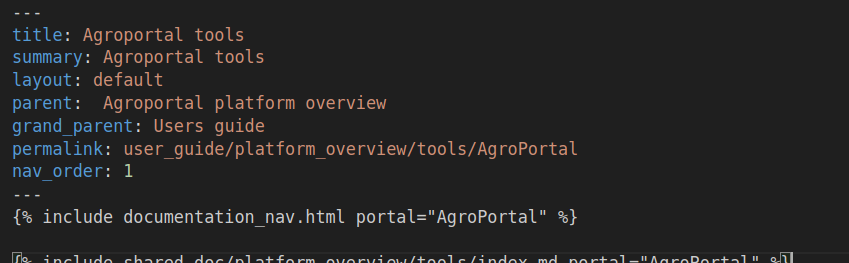
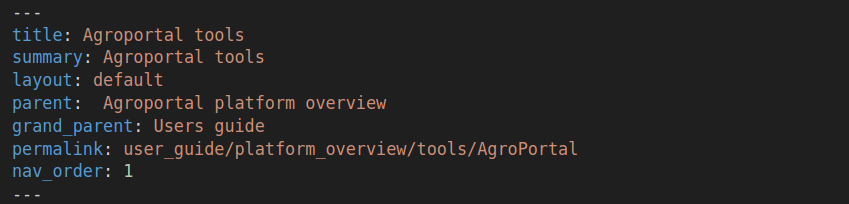
Added instructions on the user documentation contribution guide and moved the guide page link to the footer (#72)
* Added instructions on the user documentation contribution guide and moved the guide page link to the footer

* Fixed oversight when moving contribution guide to a separate page

Changed region(s): [[0.0, 0.0294, 0.7044, 0.8824], [0.0, 0.9412, 0.9494, 1.0]]

diff --git a/_layouts/default.html b/_layouts/default.html
@@ -208,6 +208,10 @@ layout: table_wrappers
 
             {{ footer_custom }}
 
+            {% if page.title == "Users guide" or page.parent == "Users guide" or page.grand_parent == "Users guide" %}
+              <p class="text-small"><a href="/documentation/user_guide/contribute">How to contribute to user documentation</a></p>
+            {% endif %}
+            
             {% if site.last_edit_timestamp or site.gh_edit_link %}
               <div class="d-flex mt-2">
                 {% if site.last_edit_timestamp and site.last_edit_time_format and page.last_modified_date %}

diff --git a/_includes/shared_doc/how_to_contribute.md b/_includes/shared_doc/how_to_contribute.md
@@ -1,15 +1,44 @@
-## How to contribute
+## How to contribute to user documentation
+In the following sections, you will find straightforward description of how to contribute to this user guide, edit shared files between the portals in the alliance, and add or edit specific content for each portal.
+If you don't know how to use Git to edit this documentation, please use the following guide: [How to contribute on github](../../documentation/docs/documentation-docs/how-to-contribute-doc/)
+
+## Files structure
+The files are structured as follows:
+
+- Shared content across all portals is located in the folder: `_includes/shared_doc`
+- Each portal has its own folder named with the name of the portal in: `docs/users-guide-docs/documentation`
+- Figures can be found in the folder: `assets/images/figures/ontoportal/PortalName` (create a new folder if needed)
+- From each portal's specific file, we can include the shared documentation to add to it or incorporate specific content.
+
+![files structure]({{site.baseimgs}}/files_structure.png)
+
+### Front matters
+- In the very top of each documentation page you need to specify these front matters to make your section appears in tables of content and the side navigation table:
+![files head]({{site.baseimgs}}/file_head.png)
+    - **title**: the title of the page. Documentation pages sharing the same title with other portals should be identified as specific to your portal by adding a space followed by @ and the name of your portal: `@PortalName`. The full title including the identifier will then be used to designate it at the parent when writing children pages: `parent: My title @PortalName`.
+    - **summary**: a brief description of the page. It will appear in the table of content of the parent page, if there's any.
+    - **layout**: the page layout. Leave it to default.
+    - **parent**: the parent page. Used to define a hierarchy.
+    - **grand_parent**: if the page is deeper in the hierarchy and Users guide is not the parent, then it Users guide becomes the grand_parent.
+    - **permalink**: defines the end part of the URL of this page. Append the name of your portal at the end of the URL, as shown in the example.
+    - **nav_order**: defines the index of the page in the table of content on the left side.
+- There are additional front matters you can use that are defined portal-wide (found in ` _config.yml`), but can also be redefined in the header of each page:
+    - **display_ontoportal_tabs**: if set to false, it will not show other OntoPortal tabs at the bottom of the page
+    - **atom**: define the core naming used for semantic resources (semantic artefact, ontology, etc...)
+    - **atoms**: same than previously, but in plural
+    - **portal**: the name of the portal
 
 ### How to add a new shared section?
 
 1. Create a new file with the extension `.md` within this path: `shared_doc/chapter_name/section_name/sub_section_name.md`
 2. Populate it with the desired content.
+3. Instead of writing "ontology" or "semantic artefact", write `{% raw %}{{ page.atom }}{% endraw %}` instead (or `{% raw %}{{ page.atoms }}{% endraw %}` for the plural form). Each portal can then decide which name they prefer to use.
 
 ### How to use this shared content for different portals?
 
 1. Create a new file with the extension `.md` within this path: `docs/users-guide-docs/documentation/portal_name/chapter_name/section_name.md`
 
-2. Inside this file, use this command: `include shared_doc/chapter_name/section_name/sub_section_name.md` to include the desired file.
+2. Inside this file, use this command: `{% raw %}{% include shared_doc/chapter_name/section_name/sub_section_name.md %}{% endraw %}` to include the desired file.
 
 3. To include multiple files, simply repeat the same command, specifying the correct file names each time.
 
@@ -24,38 +53,12 @@
 
 1. Inside the shared file, instead of writing the name of the portal, for example AgroPortal, you replace it by the variable `page.portal`
 ![shared_file_var_usage]({{site.baseimgs}}/shared_file_var_usage.png)
-2. When you include this file, you need to pass the value of the portal variable like this:  `include shared_doc/chapter_name/section_name/sub_section_name.md portal="AgroPortal"`
+2. When you include this file in a specific portal's doc, the portal name is automatically passed to it. The portal name is stored in the variable `page.portal` and can be found at the end of the `_config.yml`.
 
 ### How can screenshots or figures, which vary between portals, be incorporated into the shared files?
 
 1. Put the figure in this path: `assets/images/ontoportal/figures/portal_name/figure_name.png`
-2. Use this command
+2. Include the figure in the documentation with this command: `{% raw %}[MyFigureTitle]({{site.figures_link}}{{page.portal}}/MyFigure.png){% endraw %}`
 ![images_var_usage]({{site.baseimgs}}/images_var_usage.png)
-3. When you include this file in a specific portal's doc, you need to pass the value of the portal variable like this:  `include shared_doc/chapter_name/section_name/sub_section_name.md portal="AgroPortal"`
-
-### Important notes
-- In the very top of the portal's file, you need to specify these params to make your section appears in the Table of contents and the side nav:
-![files head]({{site.baseimgs}}/file_head.png)
-
-- Also in these files, you need always to add this command in before including or writing any content to include the navigation (portal's logos)
-`include documentation_nav.html portal="AgroPortal"`
-
-- To put a command inside a `.md` file you need to put it inside &#123;&#37; HERE &#37;&#125;
-
-- To use a variable inside your text, you need to put it inside &#123; include.VAR_NAME &#125;
-
-- Documentation pages sharing the same title with other portals should be identified as specific to your portal by adding a space followed by @ and the name of your portal: ` @PortalName`. The full title including the identifier will then be used to designate it at the parent when writing children pages: `parent: My title @PortalName`.
-
-[How to contribute on github](../../documentation/docs/documentation-docs/how-to-contribute-doc/)
-
-## Files structure
-The files are structured as follows:
-
-- Shared content across all portals is located in the folder: `_includes/shared_doc`
-- Each portal has its own folder named with the name of the portal in: `docs/users-guide-docs/documentation`
-- From each portal's specific file, we can include the shared documentation to add to it or incorporate specific content.
-
-![files structure]({{site.baseimgs}}/files_structure.png)
-
 
 

diff --git a/docs/documentation-docs/how-to-contribute-doc.md b/docs/documentation-docs/how-to-contribute-doc.md
@@ -44,3 +44,27 @@ At the bottom of each page, you will find a link that will take you to the corre
 ### Make your change and submit a commit
 ![image](https://user-images.githubusercontent.com/29259906/207832629-ba36a90d-376e-4705-ab10-b3513eec0660.png)
 
+## How to add images
+
+### Fork the project
+You can't upload a file directly to the repository. Instead, you need to fork the project:
+![image]({{site.baseimgs}}/contribute-fork.png)
+If you already forked the project, you can click the "Sync fork" button in your repository to make sure it is up to date with the current state of the documentation.
+
+### Upload an image, commit and open a pull request
+Navigate to `assets/images/ontoportal` (or `assets/images/ontoportal/figures/PortalName` for user documentation figures) and click "Add file":
+![image]({{site.baseimgs}}/contribute-upload.png)
+
+
+Drag and drop or select your file and then commit into a new branch:
+![image]({{site.baseimgs}}/contribute-upload-commit.png)
+
+
+Open a pull request onto the original repository. Click "compare across forks" to access it:
+![image]({{site.baseimgs}}/contribute-compare-forks.png)
+
+
+Select `base repository: ontoportal/documentation` and `base: master`
+You can now create the pull request:
+![image]({{site.baseimgs}}/contribute-open-pr.png)
+Note: you can also add and modify documentation pages in the new branch before creating a pull request.

diff --git a/docs/users-guide-docs/index.md b/docs/users-guide-docs/index.md
@@ -12,13 +12,8 @@ permalink: /user_guide
 Welcome to the official OntoPortal User Guide for each portal within the OntoPortal alliance. Please select a chapter or section from the menu to get started.
 
 
-In the following sections, you will find straightforward description of how to contribute to this user guide, edit shared files between the portals in the alliance, and add or edit specific content for each portal.
-
-{% include shared_doc/how_to_contribute.md%}
-
 links:
 - NCBO docs: [NCBO wiki](https://www.bioontology.org/wiki/Main_Page) and  [Bioportal Help](https://www.bioontology.org/wiki/BioPortal_Help)
 - [Our Scientific papers](https://github.com/ontoportal/literature) 
 - [API documentation](http://data.agroportal.lirmm.fr/documentation) 
 - [Ecoportal docs](https://github.com/lifewatch-eric/documentation/wiki/EcoTools) 
-

diff --git a/docs/users-guide-docs/contribute.md b/docs/users-guide-docs/contribute.md
@@ -1,0 +1,8 @@
+---
+layout: default
+title: Contribute
+permalink: /user_guide/contribute
+parent: Users guide
+nav_exclude: true
+---
+{% include shared_doc/how_to_contribute.md%}
